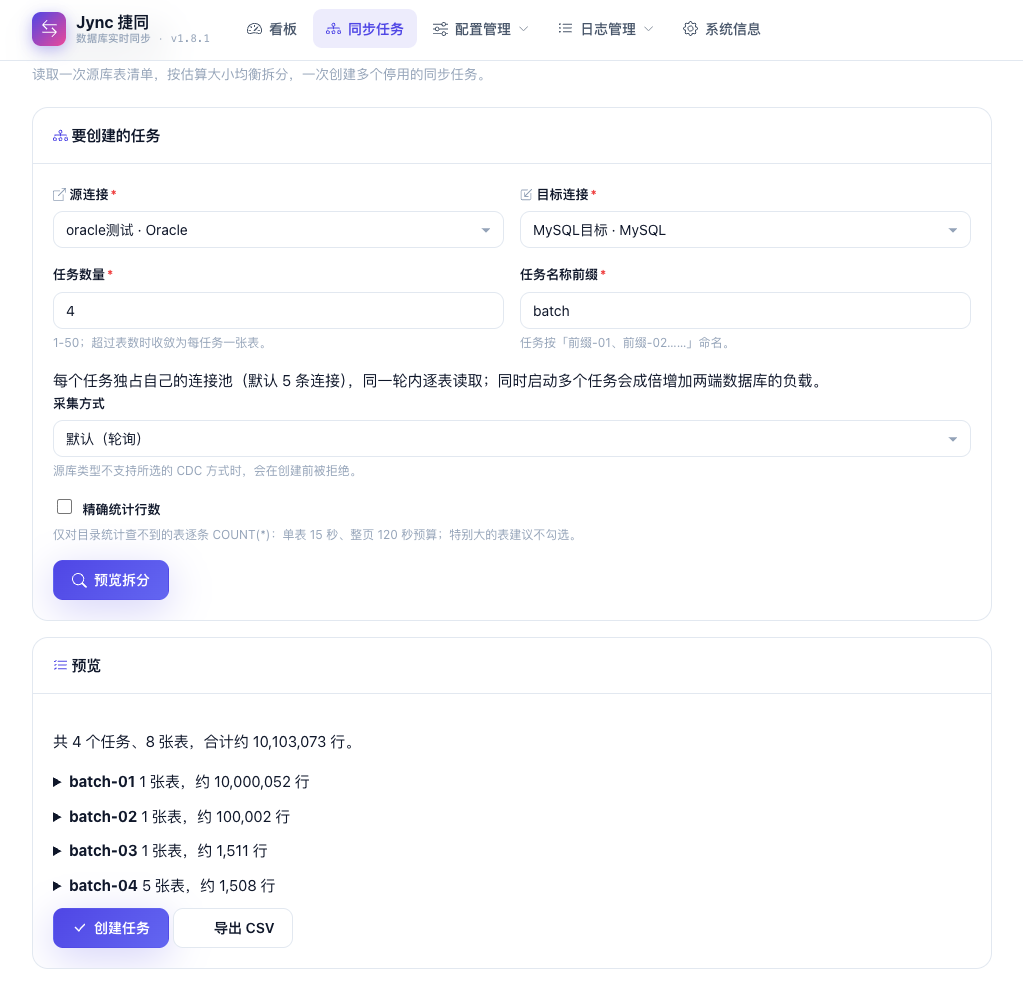
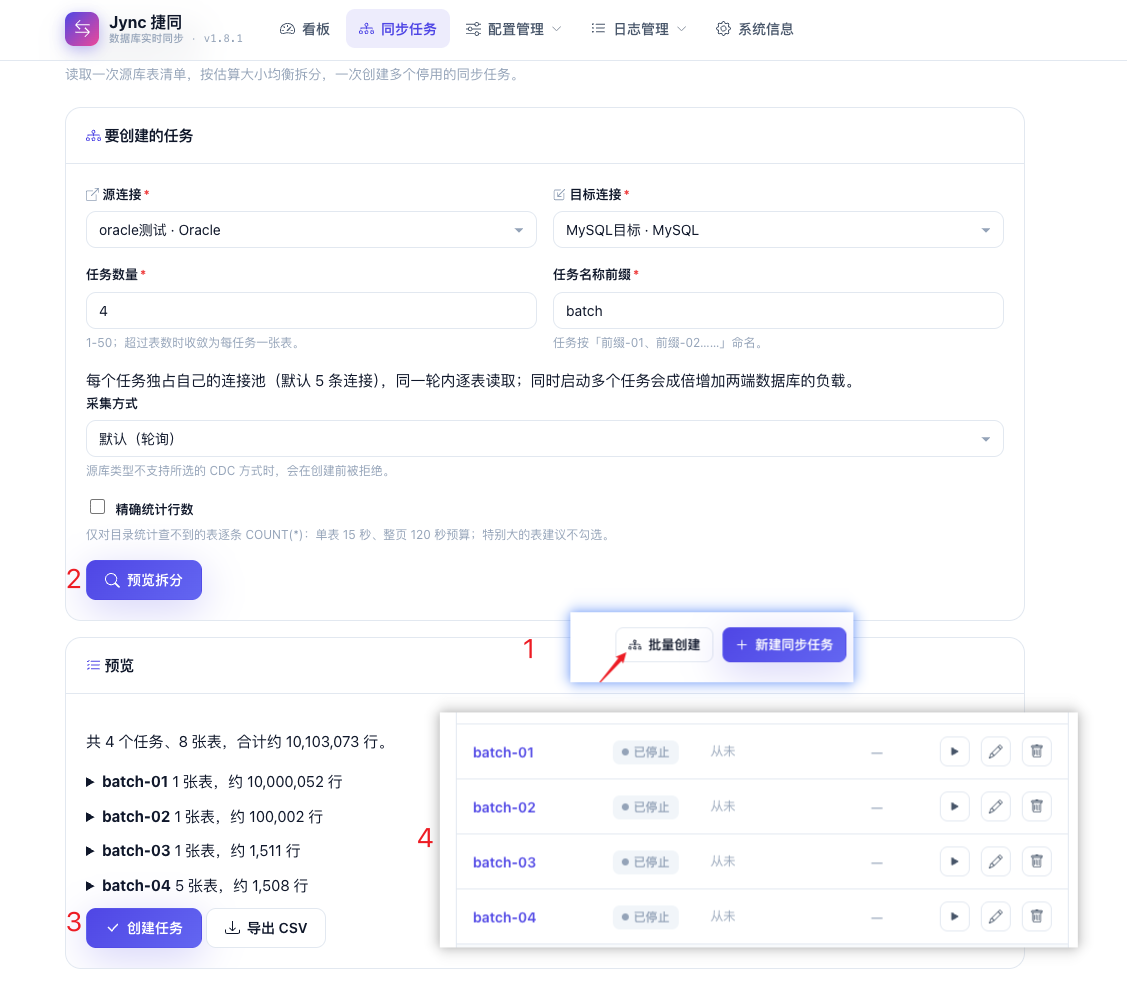
docs: v1.8.1 覆盖重发说明与测试数，更新批量创建截图
- 发布说明补记本次同版本覆盖重发，新增三处修复条目，测试数改为 2688
- README 测试数同步

diff --git a/docs/release-notes/RELEASE_NOTES_v1.8.1.md b/docs/release-notes/RELEASE_NOTES_v1.8.1.md
@@ -2,6 +2,8 @@
 
 读一次源库表清单，按估算大小分箱，预览后一次建出多个停用任务。同步链路同样提速：行数估算改为按需读取，元数据库不再每轮空写；另修正大批量基线下的行数计数与几处 CDC 状态问题。
 
+本版本曾同版本覆盖重发（安装包更新，版本号不变），以下为最终内容。
+
 ## 新功能
 
 ### 批量创建任务
@@ -33,6 +35,9 @@
 - **停止 CDC 可能被建连卡住**：消费者启动时建立两端连接的过程原先占着管理器锁，期间点「停止」要等连接超时后才返回。现在连接在锁外建立，停止会立即返回；若停止发生在建连期间，启动方放弃注册并释放租约。
 - **超大行数显示为负**：单表基线超过 21 亿行时，行数计数按 32 位整数回绕成负数，任务列表与「有变化」判定跟着错。现在全程 64 位；变更日志的行数列超限时饱和到上限而不是回绕。
 - **排队重跑可能无人执行**：持锁者恰好在本轮结束时退出时，队列里的重跑要等到下一次触发。现在这条重跑会被抢占者自己接走。删除任务时同时清掉本节点的重跑排队、重试计数与停机标记，复用同一 id 的新任务不会继承一条幽灵周期。
+- **启动 banner 的版本号过期**：发版时只改 pom，banner 里的版本是写死的独立文本，v1.8.1 启动时仍打印 v1.8.0。现在 banner 取构建时写入的 `app.version`，只改 pom 即可跟随；并加了测试，写死版本号会失败。
+- **「导出 CSV」按钮缺图标**：批量预览页的按钮引用了一个不在图标集里的 `download`，页面上只剩一块空白。现在补齐图标，并新增测试保证模板里每个图标引用（含 `fragments/`）都能在图标集中找到。
+- **预览页让用户勾选已经勾上的选项**：勾了「精确统计行数」却一条行数也没取到时（源库不允许 `COUNT(*)`，或表在规划期间被删），页面仍提示「需要大小时可勾选精确统计行数」。现在说明精确统计也没取到行数及其可能原因。
 
 ## 安全加固
 
@@ -45,5 +50,5 @@
 
 ## 测试与升级
 
-- 2683 个测试：2682 通过，0 失败；1 个仅限 Linux 的密钥文件权限用例在 macOS 上按环境跳过（`*IT` 需 Docker 另跑）。
+- 2688 个测试：2687 通过，0 失败；1 个仅限 Linux 的密钥文件权限用例在 macOS 上按环境跳过（`*IT` 需 Docker 另跑）。
 - 替换 `jync.jar` 重启即可；容器部署将镜像 tag 更新为 `jync:1.8.1`。

diff --git a/README.md b/README.md
@@ -785,7 +785,7 @@ com.qqmu.jync
 mvn test
 ```
 
-**2683 个测试：2682 通过，1 个仅限 Linux 的密钥文件权限用例在 macOS 上按环境跳过。**
+**2688 个测试：2687 通过，1 个仅限 Linux 的密钥文件权限用例在 macOS 上按环境跳过。**
 
 重点覆盖：
 
